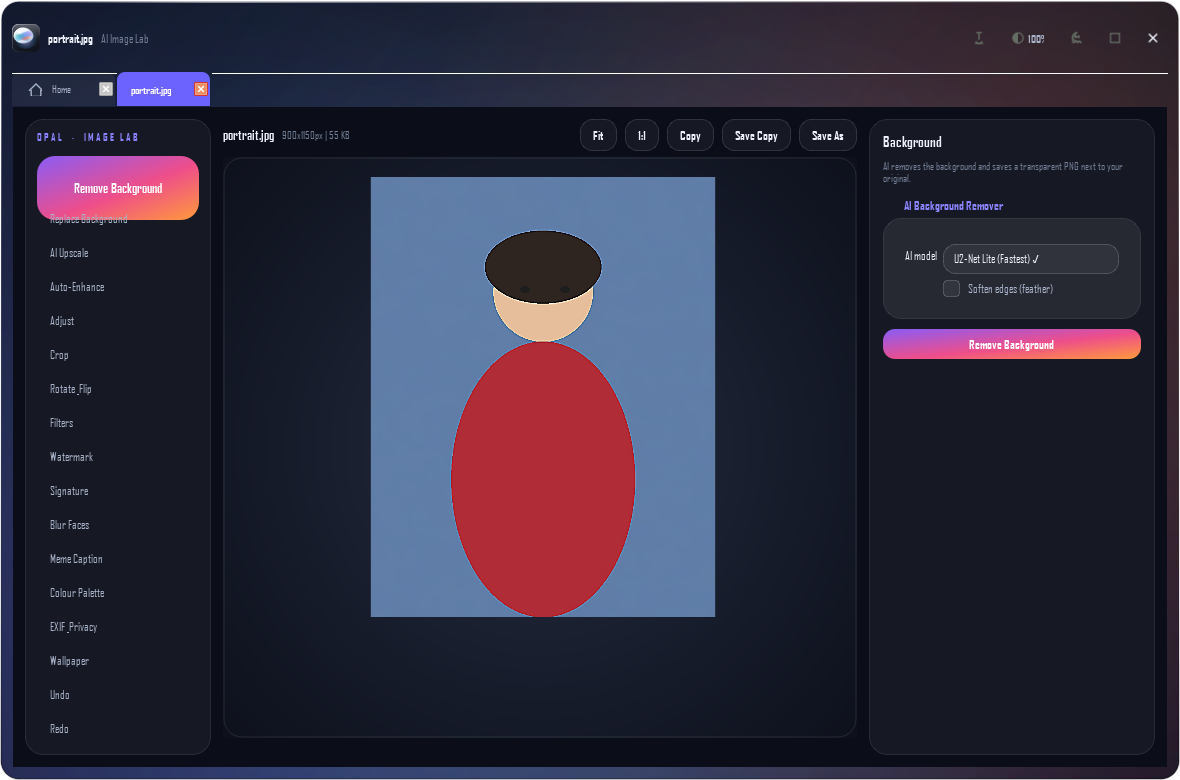
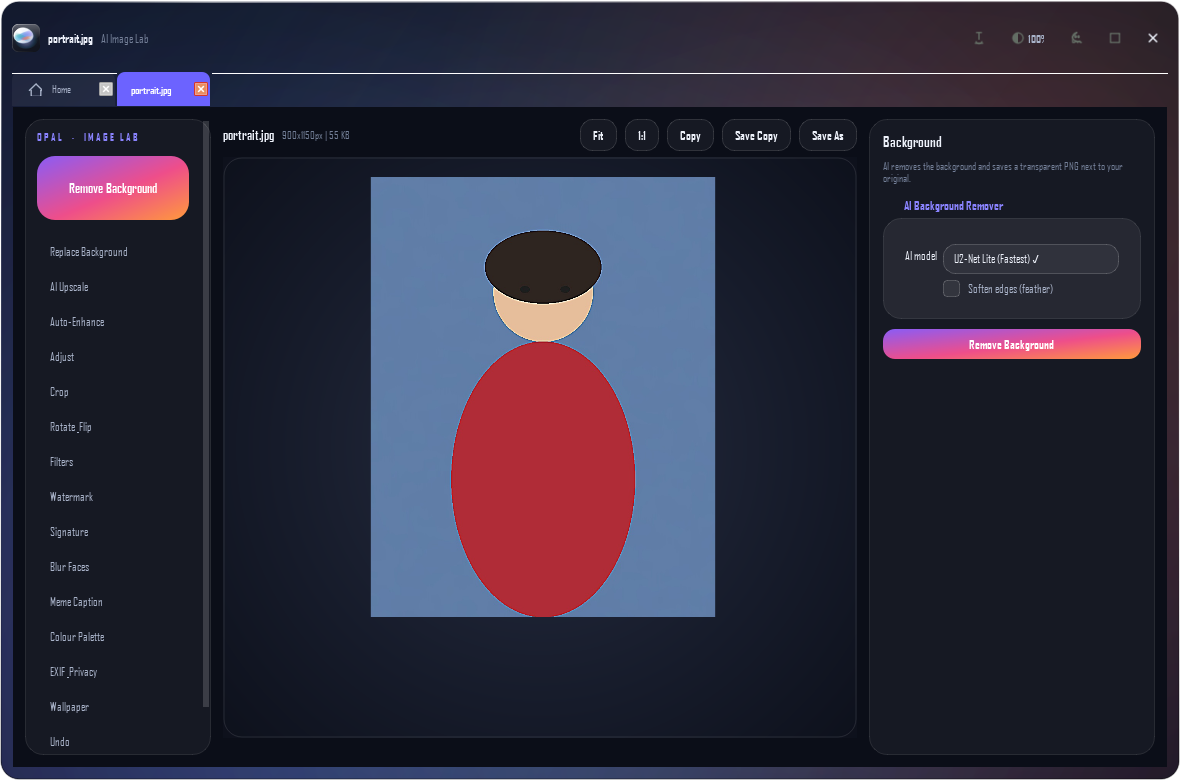
Make the image-lab tool rail scrollable instead of overlapping
At short window heights the 14 tool buttons plus the Remove Background
CTA exceeded the fixed 186px rail and Qt laid them out on top of each
other (Replace Background sat under the gradient button). The rail
content now lives in a frameless QScrollArea; gap verified 16px at
780px and 480px window heights. Website screenshots retaken (the hero
lens shows the corrected image-lab shot).

diff --git a/opal_studio/viewer_image.py b/opal_studio/viewer_image.py
@@ -341,9 +341,22 @@ class ImageLab(QWidget):
         rail.setFixedWidth(186)
         rail.setStyleSheet(f"QWidget#toolRail {{ background: rgba(255,255,255,0.05); "
                            f"border: 1px solid rgba(255,255,255,0.10); border-radius: {RADIUS_LARGE}px; }}")
-        rail_lay = QVBoxLayout(rail)
+        rail_outer = QVBoxLayout(rail)
+        rail_outer.setContentsMargins(0, 0, 0, 0)
+        # The rail can hold more tools than a short window has room for — it
+        # scrolls instead of letting the layout overlap widgets.
+        rail_scroll = QScrollArea()
+        rail_scroll.setWidgetResizable(True)
+        rail_scroll.setFrameShape(QScrollArea.NoFrame)
+        rail_scroll.setHorizontalScrollBarPolicy(Qt.ScrollBarAlwaysOff)
+        rail_scroll.setStyleSheet("QScrollArea { background: transparent; border: none; }")
+        rail_inner = QWidget()
+        rail_inner.setStyleSheet("background: transparent;")
+        rail_lay = QVBoxLayout(rail_inner)
         rail_lay.setSpacing(3)
         rail_lay.setContentsMargins(12, 12, 12, 12)
+        rail_scroll.setWidget(rail_inner)
+        rail_outer.addWidget(rail_scroll)
 
         brand = QLabel("OPAL  ·  IMAGE LAB")
         brand.setStyleSheet(f"color: {ACCENT_HI}; font-size: 10px; font-weight: 700; "
